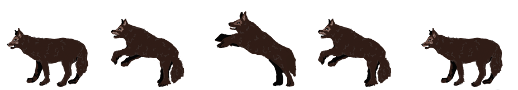
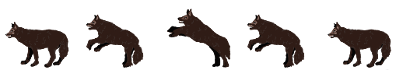
panic update2

diff --git a/src/js/islaFuego.js b/src/js/islaFuego.js
@@ -13,7 +13,15 @@
     this.SHOT_DELAY = 1000; 
     this.BULLET_SPEED = 1100; 
     this.NUMBER_OF_BULLETS = 20;
-    this.GRAVITY = 980; 
+    this.GRAVITY = 980;
+
+    
+    this.wave1active = true;
+    this.wave2 = false;
+    this.wave3 = false;
+    this.wave4 = false; 
+    this.wave5 = false;
+    this.wave6 = false;  
     //Elementos
     this.gun = this.game.add.sprite(340, 685, 'cannon');
     this.gun.anchor.setTo(0.5, 0.5);
@@ -51,7 +59,9 @@
 
 
     this.explosionGroup = this.game.add.group();
-    this.momiaGroup = this.game.add.group();
+    this.loboGroup = this.game.add.group();
+    this.osoGroup = this.game.add.group();
+    this.cuervoGroup = this.game.add.group();
 
     
     this.game.input.activePointer.x = this.game.width/2;
@@ -62,59 +72,92 @@
 
     update: function () {
 
-    this.game.physics.arcade.collide(this.bulletPool, this.ground, function(bullet, ground) {
+        this.game.physics.arcade.collide(this.bulletPool, this.ground, function(bullet, ground) {
+            
+            this.getExplosion(bullet.x, bullet.y);
+
+            this.loboGroup.forEachAlive(function(lobo){
+                if(Math.abs(lobo.body.x - bullet.x) <= 64){
+                    lobo.kill();
+                }
+            },this);
+
+            bullet.kill();
+        }, null, this);
+
+
+        this.game.physics.arcade.collide(this.bulletPool, this.wall);
+        this.game.physics.arcade.collide(this.bulletPool, this.bulletPool);
+        this.game.physics.arcade.collide(this.ground, this.wall);
+        this.game.physics.arcade.collide(this.ground, this.loboGroup);
+        this.game.physics.arcade.collide(this.ground, this.cuervoGroup);
+        this.game.physics.arcade.collide(this.ground, this.osoGroup);
         
-        this.getExplosion(bullet.x, bullet.y);
+        
+        this.bulletPool.forEachAlive(function(bullet) {
+            bullet.rotation = Math.atan2(bullet.body.velocity.y, bullet.body.velocity.x);
+        }, this);
 
-        this.momiaGroup.forEachAlive(function(momia){
-            if(Math.abs(momia.body.x - bullet.x) <= 64){
-                momia.kill();
+        this.gun.rotation = this.game.physics.arcade.angleToPointer(this.gun);
 
-            }
-        },this);
-
-        bullet.kill();
-    }, null, this);
-
-
-    this.game.physics.arcade.collide(this.bulletPool, this.wall);
-    this.game.physics.arcade.collide(this.bulletPool, this.bulletPool);
-    this.game.physics.arcade.collide(this.ground, this.wall);
-    this.game.physics.arcade.collide(this.ground, this.momiaGroup);
-    
-    
-    this.bulletPool.forEachAlive(function(bullet) {
-        bullet.rotation = Math.atan2(bullet.body.velocity.y, bullet.body.velocity.x);
-    }, this);
-
-    this.gun.rotation = this.game.physics.arcade.angleToPointer(this.gun);
-
-    if (this.game.input.activePointer.isDown) {
-        this.shootBullet();
-    }
-      if(this.p){  
-        var momia = this.game.add.sprite(700 , 100, 'momia');
-        this.game.physics.enable(momia, Phaser.Physics.ARCADE);
-        momia.body.velocity.x = -50;
-        this.momiaGroup.add(momia);  
+        if (this.game.input.activePointer.isDown) {
+            this.shootBullet();
         }
-        this.p = false;
-        //this.momiaGroup.forEach(function(momia){momia.animations.play('move');})
+
+
+
+        if(this.wave1active){
+            this.wave1a();
+        }
+        //this.game.time.events.add(Phaser.Timer.SECOND * 4, this.wave1, this);
+
+        /*if(this.p){   var lobo = this.game.add.sprite(900 , 700, 'lobo');
+        this.game.physics.enable(lobo, Phaser.Physics.ARCADE);
+        lobo.body.velocity.x = -50; var animation = lobo.animations.add('move',[0,1,2,3] ,6, true); lobo.animations.play('move');this.loboGroup.add(lobo);
+        } 
+        this.p = false;*/
+        //this.momiaGroup.forEach(function(lobo){lobo.animations.play('move');})
+        //Math.floor((Math.random() * 10) + 1);
+        //game.time.events.add(Phaser.Timer.SECOND * 4, fadePicture, this);
     },
 
-    wave1: function(){
-        var momia = this.game.add.sprite(1500 , 600, 'momia');
-              this.game.physics.enable(momia, Phaser.Physics.ARCADE);
-              momia.body.velocity.x = -50;
-              //var animation = momia.animations.add('move', [0,1,2,3, 60, false);
-              //momia.animations.play('move');
-              this.momiaGroup.add(momia);
-              
+    wave1a: function(){
+        console.log("Hola");
+        //this.addLobos(5);
+        this.addOsos(6);
+        this.wave1active = false;
 
     },
 
+    addLobos: function(number){
+        for(var i = 0;i < number;i++){
+              var lobo = this.game.add.sprite(1500 , 600, 'lobo');
+              this.game.physics.enable(lobo, Phaser.Physics.ARCADE);
+              lobo.body.velocity.x = -(Math.floor((Math.random() * 100) + 50));
+              var animation = lobo.animations.add('move', [0,1,2,3,4] ,6, true);
+              lobo.animations.play('move');
+              this.loboGroup.add(lobo);
+
+        }
+        console.log("lobo");
+
+    },
+     addOsos: function(number){
+        for(var i = 0;i < number;i++){
+              var oso = this.game.add.sprite(1500 , 600, 'oso');
+              this.game.physics.enable(oso, Phaser.Physics.ARCADE);
+              oso.body.velocity.x = -(Math.floor((Math.random() * 100) + 50));
+              var animation = oso.animations.add('move', [0,1,2,3] ,6, true);
+              oso.animations.play('move');
+              this.osoGroup.add(oso);
+
+        }
+        console.log("lobo");
+
+    }
     
   };
+
  Fuego.prototype.shootBullet = function() {
     if (this.lastBulletShotAt === undefined) this.lastBulletShotAt = 0;
     if (this.game.time.now - this.lastBulletShotAt < this.SHOT_DELAY) return;

diff --git a/src/js/preloader.js b/src/js/preloader.js
@@ -20,8 +20,9 @@
       this.load.spritesheet('ship', 'assets/barco.png', 99, 75);
       this.load.spritesheet('personaje', 'assets/personaje.png', 30, 65);
       this.load.spritesheet('explosion', 'assets/boom.png', 128, 128);
-      this.load.spritesheet('momia', 'assets/lobo.png', 88.88, 90);
-      this.load.spritesheet('zombie', 'assets/monstruos.png', 128, 128);
+      this.load.spritesheet('lobo', 'assets/lobo.png', 70, 70);
+      this.load.spritesheet('oso', 'assets/oso.png', 61.6, 100);
+      this.load.spritesheet('cuervo', 'assets/cuervo.png', 59.5, 60);
       this.load.image('fuego', 'assets/islaFuego1.png');
       this.load.image('hielo', 'assets/islaHielo.png');
       this.load.image('tierra', 'assets/islaTierra1.png');
